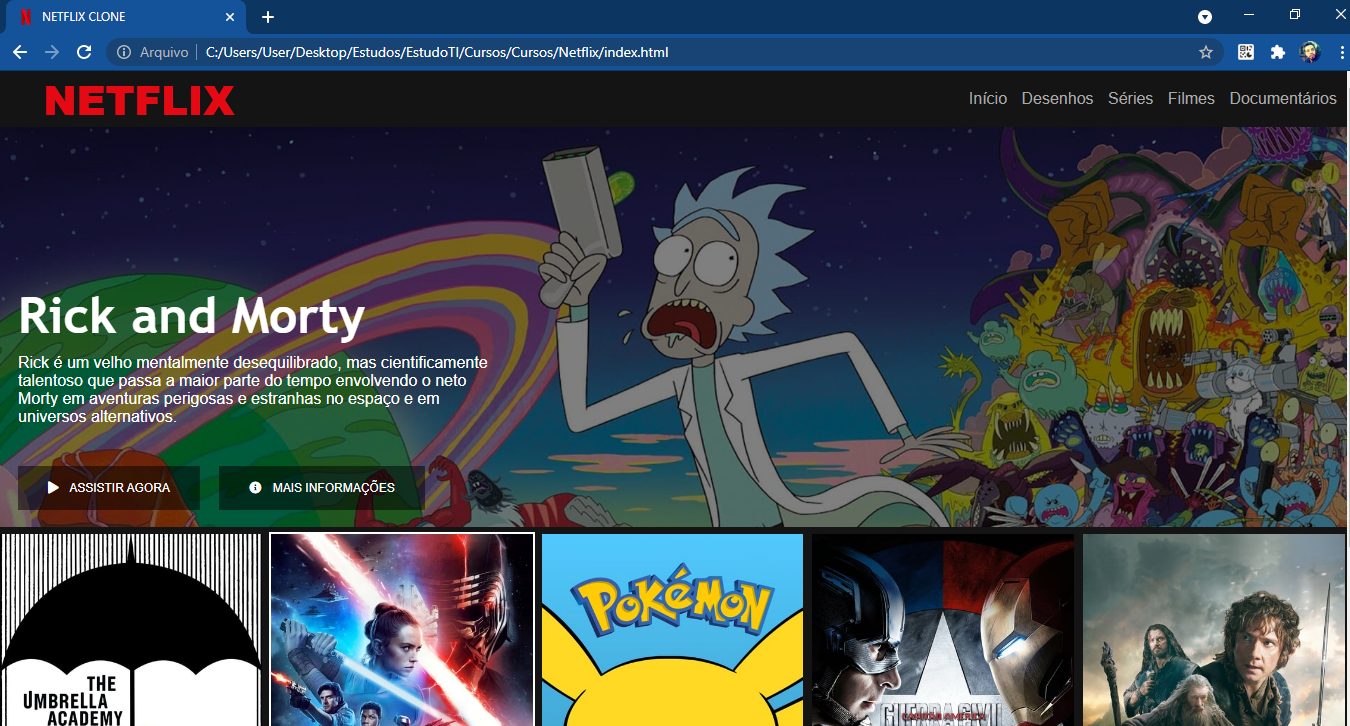
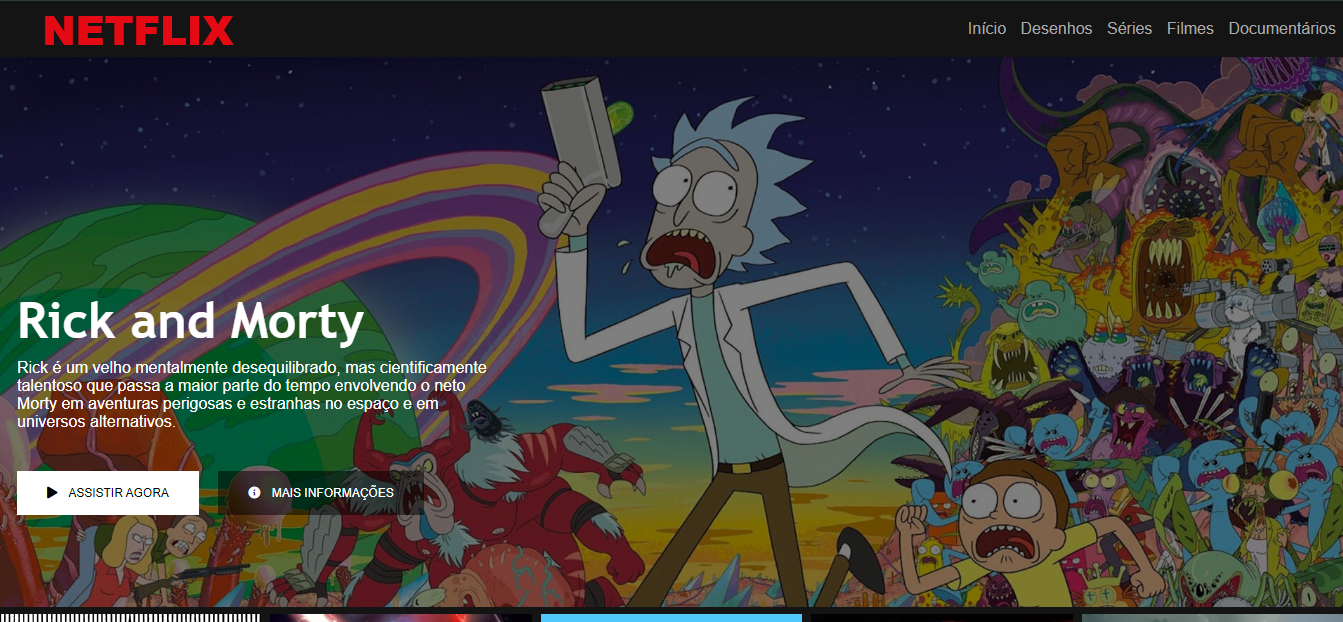
README NETFLIX

diff --git a/Netflix/style/main.css b/Netflix/style/main.css
@@ -53,7 +53,7 @@ header nav a:hover{
     font-size:16px;
     background: linear-gradient(rgba(0,0,0,.50),rgba(0,0,0,.50)100%), url('../img/mainram.jpg');
 
-    height:400px;
+    height:550px;
     background-size:cover;
  
 

diff --git a/Netflix/README.MD b/Netflix/README.MD
@@ -9,3 +9,5 @@
 ## How it looks like
 ![preview 02](./img/preview2.png)
 ![preview 01](./img/preview.png)
+![preview 03](./img/preview3.png)
+
